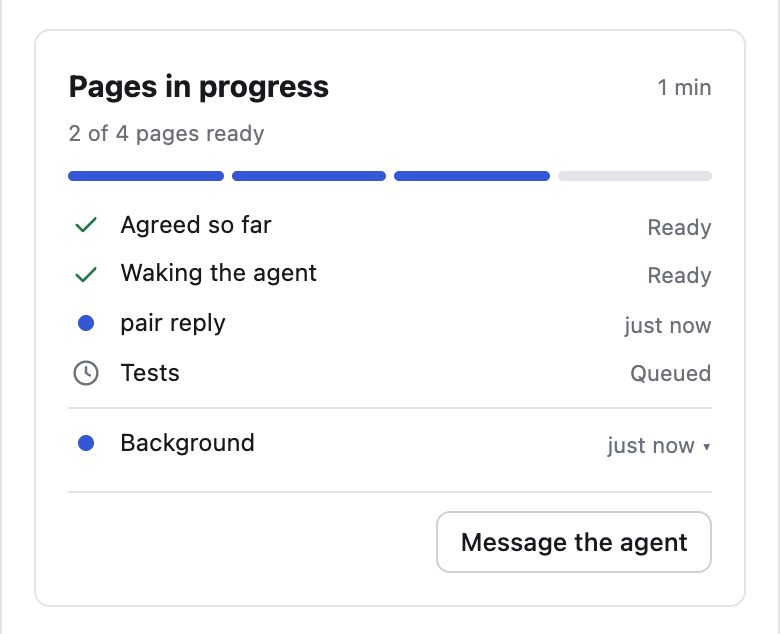
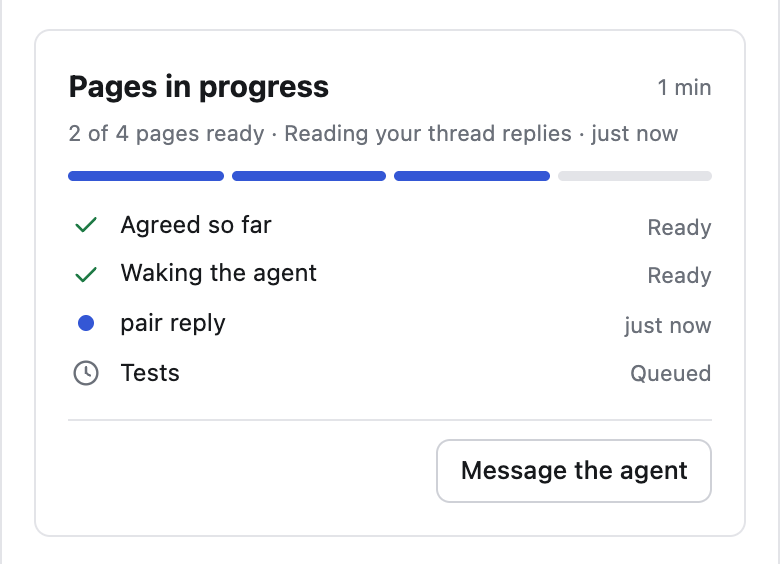
Retake the docs screenshots with the new bell lines and round note
The second session in the screenshots now starts after the bell's first
poll, so the bell shows its start and its waiting round beside the reply,
and the progress card's note is about work that is not one page's.

diff --git a/docs/concepts/sessions-and-rounds.md b/docs/concepts/sessions-and-rounds.md
@@ -70,7 +70,7 @@ open in the tab you are using.
 
 <picture>
   <source media="(prefers-color-scheme: dark)" srcset="../assets/bell-dark.png">
-  <img alt="The bell's list with an agent's reply, and the session button in orange because another session waits for you" src="../assets/bell-light.png">
+  <img alt="The bell's list with another session's start and waiting round and an agent's reply, and the session button in orange because that session waits for you" src="../assets/bell-light.png">
 </picture>
 
 ## Feedback
